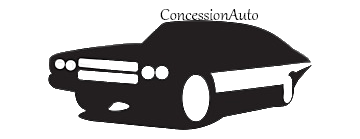
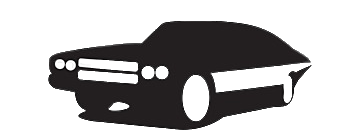
Migliorati graficamente il login e il register user terminata la nav bar inserito un footer iniziato lo sviluppo di un menù a tendina al momento incompleto

Changed region(s): [[0.4278, 0.0576, 0.7333, 0.1727]]

diff --git a/style.css b/style.css
@@ -1,6 +1,6 @@
 body{
-    margin: 10px;
-    background-color:rgb(188, 182, 255);
+    margin: 0px;
+    background-color:rgb(129, 210, 199);
 }
 label{
     font-family: nunito;
@@ -8,7 +8,7 @@ label{
 }
 p{
     margin-right: 40%;
-        font-family: nunito;
+    font-family: nunito;
     color: white;
 }
 span{
@@ -32,16 +32,18 @@ span{
 }   
 #header1{
     padding: 1%;
+    height: 30px;
     background-color: white;
 }
 #header2{
     padding: 0.5%;
     height: 30px;
-    background-color:rgb(0, 83, 119);
+    background-color:rgb(65, 103, 136);
 }
-img{
-    height: 90px;
-    width: 200px;
+footer{
+    padding: 0.5%;
+    height: 50px;
+    background-color: rgb(65, 103, 136);
 }
 .class{
     float: left;
@@ -53,6 +55,7 @@ img{
 }
 #credits{
     background-color: white;
+    
     height: auto;
     width: auto; 
 }
@@ -67,7 +70,7 @@ h1{
     width: 200px;
     padding: 2%;
     margin: auto;
-    background: linear-gradient(90deg, rgb(0, 83, 119)10%, rgb(6, 167, 125) 50%, rgb(148, 251, 171) 100%);
+    background: linear-gradient(90deg, rgb(65, 103, 136)10%, rgb(115, 137, 174) 50%, rgb(181, 186, 208) 100%);
 }
 #formatRegister{
     text-align: center;
@@ -76,7 +79,7 @@ h1{
     width: 200px;
     padding: 2%;
     margin: auto;
-    background: linear-gradient(90deg, rgb(0, 83, 119)10%, rgb(6, 167, 125) 50%, rgb(148, 251, 171) 100%);
+    background: linear-gradient(90deg, rgb(65, 103, 136)10%, rgb(115, 137, 174) 50%, rgb(181, 186, 208) 100%);
 }
 #login{
     border-radius: 5px;
@@ -84,7 +87,7 @@ h1{
     width: 120px;
     border-color: transparent;
     font-family: nunito;
-    background-color:rgb(0, 83, 119);
+    background-color:rgb(65, 103, 136);
     color: antiquewhite;
 }
 .bottone-gruppo button{
@@ -95,7 +98,7 @@ h1{
     border-radius: 16px;
     border-color: transparent;
     color: white;
-    background-color:rgb(0, 83, 119);
+    background-color:rgb(65, 103, 136);
     font-family: nunito;
 }
 .sinistra{
@@ -108,13 +111,18 @@ h1{
     content: "";
     clear: both;
     display: table;
-  }
+}
+#jumpscare{
+    visibility: hidden;
+    position: fixed;
+    
+}
 .bottone-gruppo button:not(:last-child){
     border-right: none;
 }
 .bottone-gruppo button:hover{
     color: black;
-    background-color: rgb(148, 251, 171);
+    background-color: rgb(129, 210, 199);
 }
 .bottone2{
     float: right;
@@ -125,14 +133,14 @@ h1{
     border-radius: 5%;
     font-family: nunito;
 }
-#ico{
-    float: left;
-    width: 20px;
-    height: 20px;
-    border-width: 0; margin: 0; padding: 0;
+#logo{
+    margin-top: 20px;
+    margin-left: auto;
+    margin-right: auto;
 }
 #home{
-    position: relative; padding: 0;
+    position: relative;
+     padding: 0;
 }
 #ico2{
     float: left;
@@ -145,7 +153,7 @@ h1{
 
 #login:hover {
     color: black;
-    background-color: rgb(148, 251, 171);
+    background-color: rgb(129, 210, 199);
 }
 .imgSite{
     margin-top: 20px;
@@ -167,7 +175,7 @@ h1{
     margin: auto;
     border-color: transparent;
     border-radius: 12px;
-    width: 55%;
+    width: 80%;
 }
 .caselle:hover{
     border-style:groove;
@@ -178,5 +186,56 @@ h1{
     margin-left:20% ;
     text-align: justify;
 }
-
-
+.foto-piedi{
+    margin: auto;
+    width: 100px;
+    height: 50px;
+}
+.sidenav {
+    height: 100%; /* 100% Full-height */
+    width: 0; /* 0 width - change this with JavaScript */
+    position: fixed; /* Stay in place */
+    z-index: 1; /* Stay on top */
+    top: 0;
+    left: 0;
+    background-color: #111; /* Black*/
+    overflow-x: hidden; /* Disable horizontal scroll */
+    padding-top: 60px; /* Place content 60px from the top */
+    transition: 0.5s; /* 0.5 second transition effect to slide in the sidenav */
+  }
+  
+  /* The navigation menu links */
+  .sidenav a {
+    padding: 8px 8px 8px 32px;
+    text-decoration: none;
+    font-size: 25px;
+    color: #818181;
+    display: block;
+    transition: 0.3s;
+  }
+  
+  /* When you mouse over the navigation links, change their color */
+  .sidenav a:hover {
+    color: #f1f1f1;
+  }
+  
+  /* Position and style the close button (top right corner) */
+  .sidenav .closebtn {
+    position: absolute;
+    top: 0;
+    right: 25px;
+    font-size: 36px;
+    margin-left: 50px;
+  }
+  
+  /* Style page content - use this if you want to push the page content to the right when you open the side navigation */
+  #main {
+    transition: margin-left .5s;
+    padding: 20px;
+  }
+  
+  /* On smaller screens, where height is less than 450px, change the style of the sidenav (less padding and a smaller font size) */
+  @media screen and (max-height: 450px) {
+    .sidenav {padding-top: 15px;}
+    .sidenav a {font-size: 18px;}
+  }

diff --git a/index.html b/index.html
@@ -1,5 +1,10 @@
 <!DOCTYPE html>
 <html lang="en">
+    <div id="side-nav" class="sidenav">
+        <a href="javascript:void(0)" class="closebtn" onclick="closeNav()">chiudi</a>
+        <a href="#">Trova auto</a>
+        <a href="#">Carello</a>
+   </div>
 <head>
     <meta charset="UTF-8">
     <meta http-equiv="X-UA-Compatible" content="IE=edge">
@@ -11,27 +16,29 @@
     <link rel="stylesheet" href="https://cdnjs.cloudflare.com/ajax/libs/font-awesome/4.7.0/css/font-awesome.min.css">
 </head>
 <body>
+    <div id="main">
     <header id="header1">
-    <div id="img" class="class">
-        <img src="cartellafoto/pngtree-car-icon-png-image_4053347-removebg-preview-removebg-preview.png"widt="250px" height="100px">
-    </div>
-    <div id="credits" class="class">
-        <img src="cartellafoto/concessionAuto-removebg-preview.png">
-    </div> <br><br><br><br><br>
+       <button onclick="openNav()">apri</span>
+    </header>
 </header>
 <header id="header2">
     <nav>
         <div class="bottone-gruppo">
             <a href="index.html"><button class="sinistra"><i class="fa fa-home"></i> Home page</button></a>
-            <a href="index.html"><button class="sinistra"><i class="fa fa-user"></i> Chi siamo</button></a>
-            <a href="index.html"><button class="sinistra"><i class="fa fa-envelope"></i> Contatti</button></a>
+            <a href=""><button onclick="return appari()" class="sinistra"><i class="fa fa-user"></i> Chi siamo</button></a>
+            <a href=""><button class="sinistra"><i class="fa fa-envelope"></i> Contatti</button></a>
             <a href="login.html"><button class="destra"><i class="fa fa-key"></i>  Login</button></a>
             <a href="registra.html"><button class="destra"><i class="fa fa-users"></i>  Register</button></a>
         </div>
-            
     </nav>
-
 </header>
-
+<br>
+<footer>
+    <div id="piedi">
+        <img class="foto-piedi" src="cartellafoto/car-logo.png">
+        <img class="foto-piedi" src="cartellafoto/concessionAuto-removebg-preview.png">
+    </div>
+</footer>
+</div>
 </body>
 </html>

diff --git a/script.js b/script.js
@@ -17,15 +17,20 @@ function psw() {
         alert("la password deve essere lunga almeno 8 caratteri");
         return false;
     }else{
-        window.location.href = "homepage.html";
+        window.location.href = "index.html";
         return true;
         
     }
  }
-  function cambiaColore() {
-    let img1 = document.getElementById("ico").src;
-    
-  }
-  function cambiaColore2(){
-    document.getElementById("ico").src = "cartellafoto/CasaBianca.png";
-  }
+ function openNav() {
+  document.getElementById("side-nav").style.width = "250px";
+  document.getElementById("main").style.marginLeft = "250px";
+}
+
+/* Set the width of the side navigation to 0 and the left margin of the page content to 0 */
+function closeNav() {
+  document.getElementById("side-nav").style.width = "0";
+  document.getElementById("main").style.marginLeft = "0";
+}
+  
+  

diff --git a/login.html b/login.html
@@ -11,6 +11,7 @@
 </head>
 <body>
     <h1 id="titolo_login">Login</h1>
+        
     <div id="format">
         <form id="loginForm">
         <div class="label"><p>Username:</p></div> 
@@ -24,5 +25,7 @@
         <br>
         <button id="login" onclick="return controllo()">login</button>
     </div>
+     
+    <center><img id="logo" src="cartellafoto/car-logo.png" alt=""></center>
 </body>
 </html>

diff --git a/registra.html b/registra.html
@@ -27,5 +27,6 @@
         <br><br>
         <button id="login" onclick="return controllo()">registra utente</button>
     </div>
+    <center><img id="logo" src="cartellafoto/car-logo.png"></center>
 </body>
 </html>
